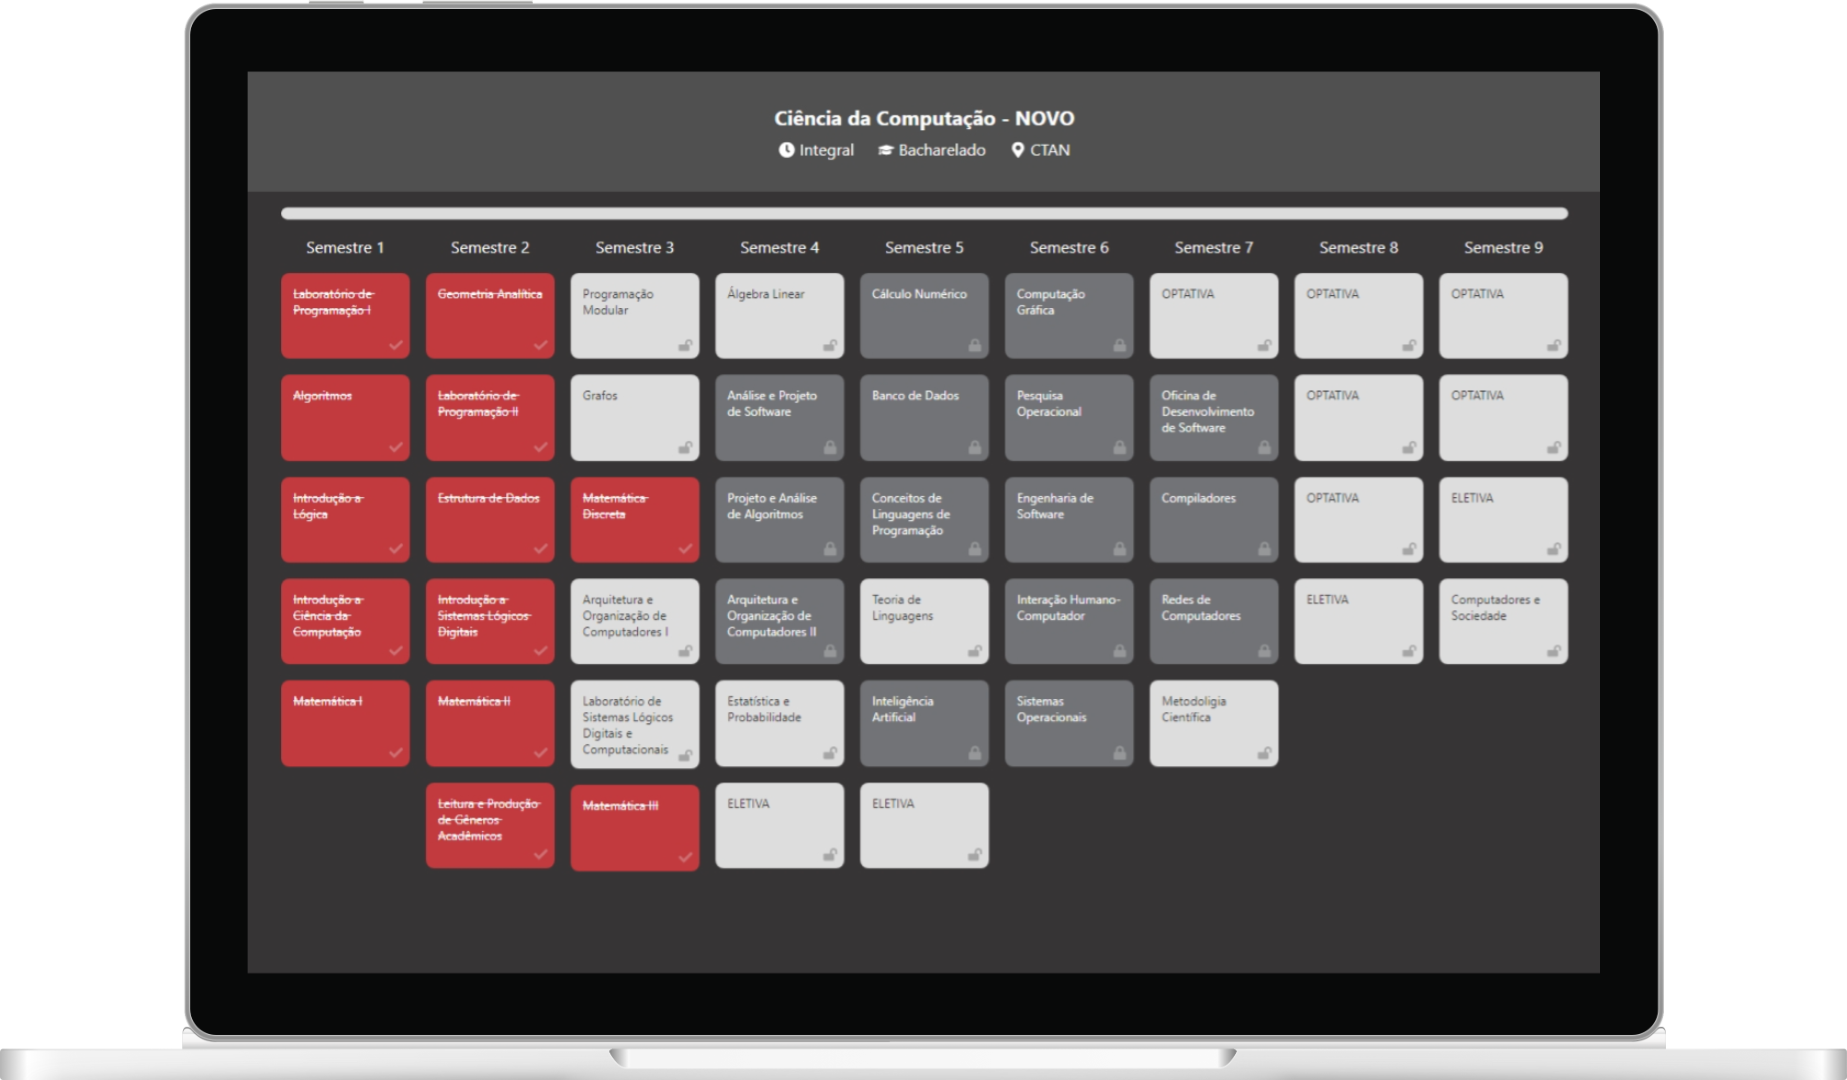
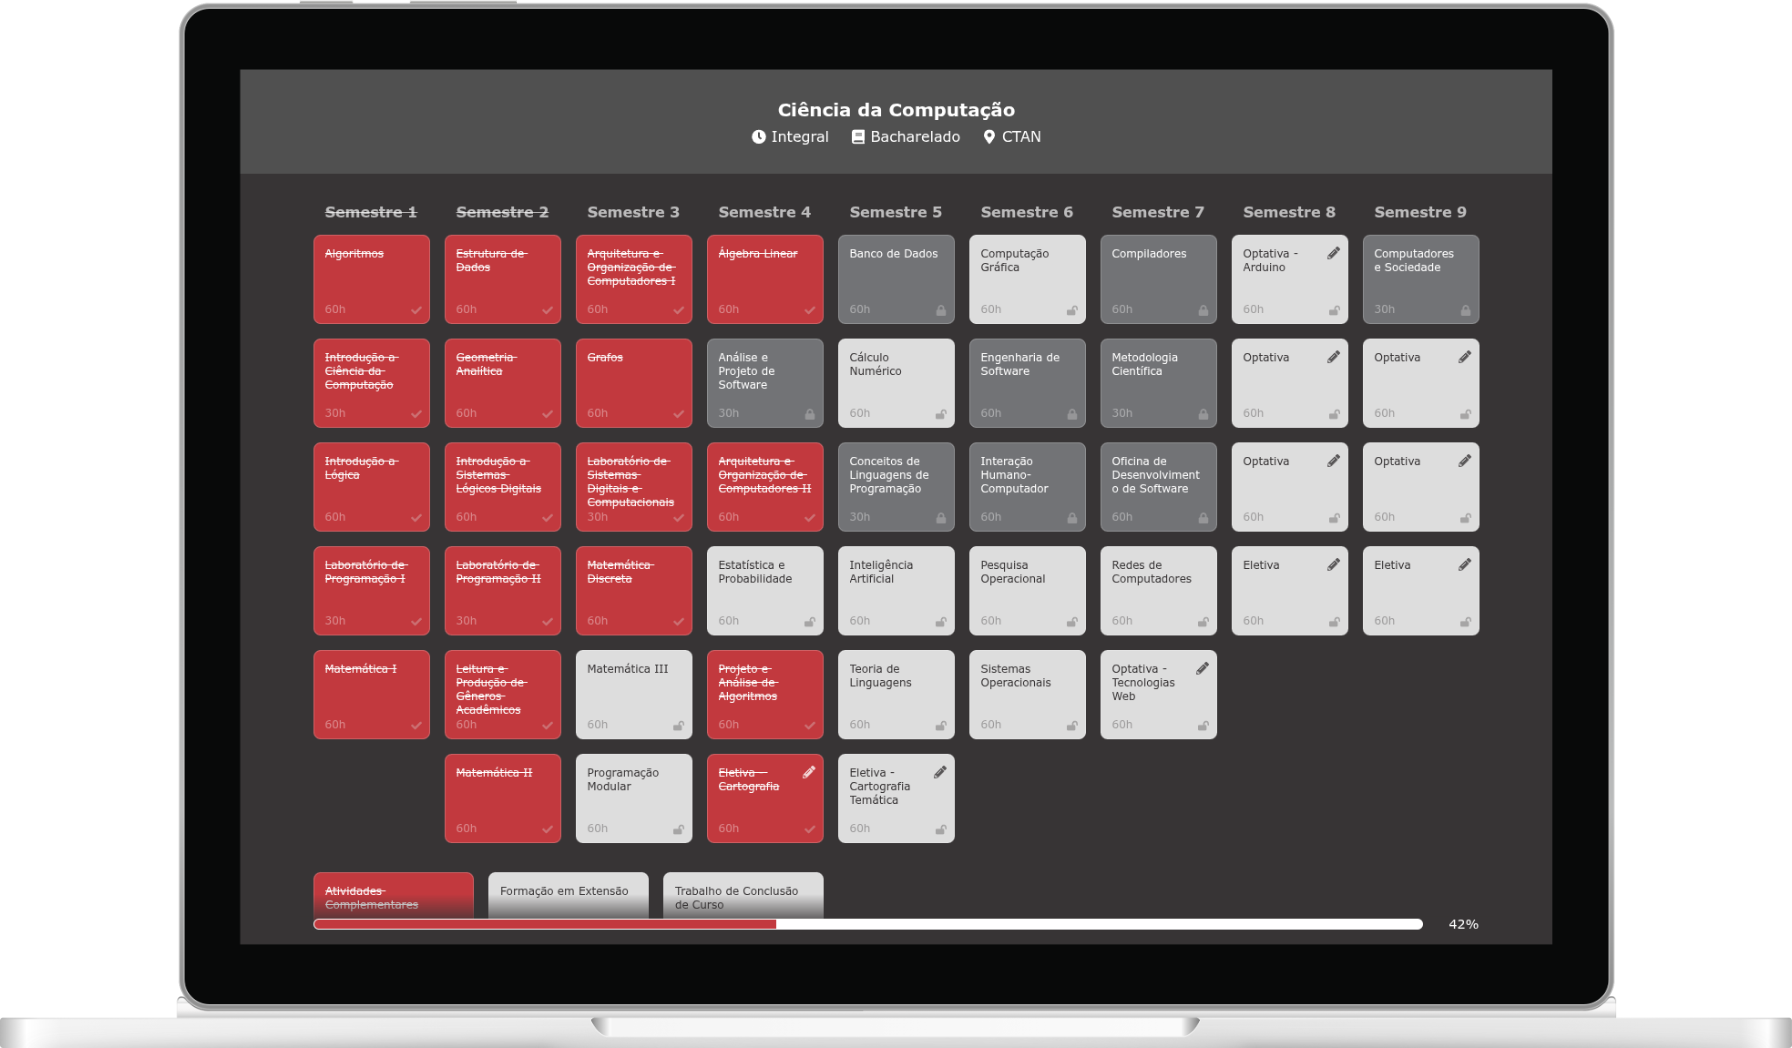
:bookmark_tabs: Update readme description

Changed region(s): [[0.125, 0.0916, 0.875, 0.8855]]

diff --git a/README.md b/README.md
@@ -1,31 +1,35 @@
-&nbsp;
+<!-- markdownlint-disable no-inline-html -->
 
 <h1>
     <p align=center>
-        <img height=150 src='./docs/logo.webp'/>
+        <img height=150 src='./docs/logo.png' alt="Fluxogramas Interativos" />
     </p>
 </h1>
 
 <p align=center>
     <a href='https://fluxogramas-interativos-ufsj.vercel.app/'>fluxogramas-interativos-ufsj.vercel.app</a>
     <br/><br/>
-    <img height=30 src='https://img.shields.io/badge/TypeScript-007ACC?style=for-the-badge&logo=typescript&logoColor=white'>
+    <img height=30 src='https://img.shields.io/badge/TypeScript-007ACC?style=for-the-badge&logo=typescript&logoColor=white' alt="TypeScript">
     &nbsp;
-    <img height=30 src='https://img.shields.io/badge/Express-303030?style=for-the-badge&logo=express&logoColor=white'>
+    <img height=30 src='https://img.shields.io/badge/Express-303030?style=for-the-badge&logo=express&logoColor=white' alt="Express">
     &nbsp;
-    <img height=30 src='https://img.shields.io/badge/React-61DAFB?style=for-the-badge&logo=react&logoColor=20232A'>
+    <img height=30 src='https://img.shields.io/badge/React-61DAFB?style=for-the-badge&logo=react&logoColor=20232A' alt="React">
     &nbsp;
-    <img height=30 src='https://img.shields.io/badge/styled--components-DB7093?style=for-the-badge&logo=styled-components&logoColor=white'>
+    <img height=30 src='https://img.shields.io/badge/styled--components-DB7093?style=for-the-badge&logo=styled-components&logoColor=white' alt="styled-components">
     &nbsp;
-    <img height=30 src='https://img.shields.io/badge/Vercel-000000?style=for-the-badge&logo=vercel&logoColor=white'>
+    <img height=30 src='https://img.shields.io/badge/Prisma-161d2b?style=for-the-badge&logo=prisma&logoColor=white' alt="Prisma">
+    &nbsp;
+    <img height=30 src='https://img.shields.io/badge/PostgreSQL-0064a5?style=for-the-badge&logo=postgresql&logoColor=white' alt="PostgreSQL">
+    &nbsp;
+    <img height=30 src='https://img.shields.io/badge/Docker-1D63ED?style=for-the-badge&logo=docker&logoColor=white' alt="Docker">
 </p>
 
 &nbsp;
 
 <p align=center>
-    <img width=70% src='./docs/mockup-desktop.png'>
+    <img width=70% src='./docs/mockup-desktop.png' alt="desktop">
     &nbsp;&nbsp;&nbsp;&nbsp;
-    <img width=15% src='./docs/mockup-mobile.png'>
+    <img width=15% src='./docs/mockup-mobile.png' alt="mobile">
 </p>
 
 &nbsp;
@@ -44,16 +48,17 @@ By creating a standardized approach, this project aims to enhance the accessibil
 
 ### Front-End (React)
 
+- ✅ Interactive progess
+- 💾 Auto saving
+- 🖼 Generate image
+- 📱 Responsive layout
 - 🌙 Light/Dark mode
-- 🔍 Search course by name
-- ✅ Interactive course progess
-- 📱 Responsive layout (styled-components)
 
 ### Back-End (Express)
 
 - ♻ CRUD operations
-- 🔌 API hosted in Vercel
-- 🗃 Data stored in MongoDB
+- 🔐 Login management using refresh tokens
+- 🗃 Data stored using PostgreSQL (Neon cluster)
 
 &nbsp;
 
@@ -62,3 +67,52 @@ By creating a standardized approach, this project aims to enhance the accessibil
 This project is maintened by [gabriel-dp](https://github.com/gabriel-dp), if you want to contribute in any way, get in touch with me!
 
 Publishing data of all courses will take a significant amount of time as it will be added gradually. 😅
+
+&nbsp;
+
+---
+
+&nbsp;
+
+## 🖥 Run locally
+
+### Clone repository
+
+```bash
+git clone https://github.com/gabriel-dp/Fluxogramas-Interativos-UFSJ.git
+cd Fluxogramas-Interativos-UFSJ
+```
+
+&nbsp;
+
+### Install dependencies
+
+```bash
+npm install
+```
+
+&nbsp;
+
+### Define environment variables
+
+> View and fill server and client `.env` examples.
+
+&nbsp;
+
+### Run client, server and database
+
+> You must have [Docker](https://www.docker.com/) installed.
+
+```bash
+npm run docker:up
+```
+
+&nbsp;
+
+### Run server automated tests
+
+> All tests are inside `__tests__` folder, ending with `.test.ts`
+
+```bash
+npm run test
+```

diff --git a/server/README.md b/server/README.md
@@ -45,35 +45,3 @@ cp .env.example .env.development
 | `REFRESH_TOKEN_SECRET` | Secret key for signing and verifying Refresh JWT tokens. **Recommended: 32-character hash**. | `string` |
 | `ACCESS_TOKEN_EXPIRATION` | Expiration time for Access JWT tokens. *(e.g., `15m`)*. | `string` |
 | `REFRESH_TOKEN_EXPIRATION` | Expiration time for Access JWT tokens. *(e.g., `7d`)*. | `string` |
-
-&nbsp;
-
-## Run locally
-
-Start the containers:
-
-```bash
-npm run dev:start
-```
-
-> The server is restarted on every source code change.
-
-### Stop and Remove containers
-
-Remove containers when necessary:
-
-```bash
-npm run dev:finish
-```
-
-&nbsp;
-
-## Run automated tests
-
-Create a temporary environment and run test suites:
-
-```bash
-npm run test:auto
-```
-
-> All tests are inside `__tests__` folder, ending with `.test.ts`
